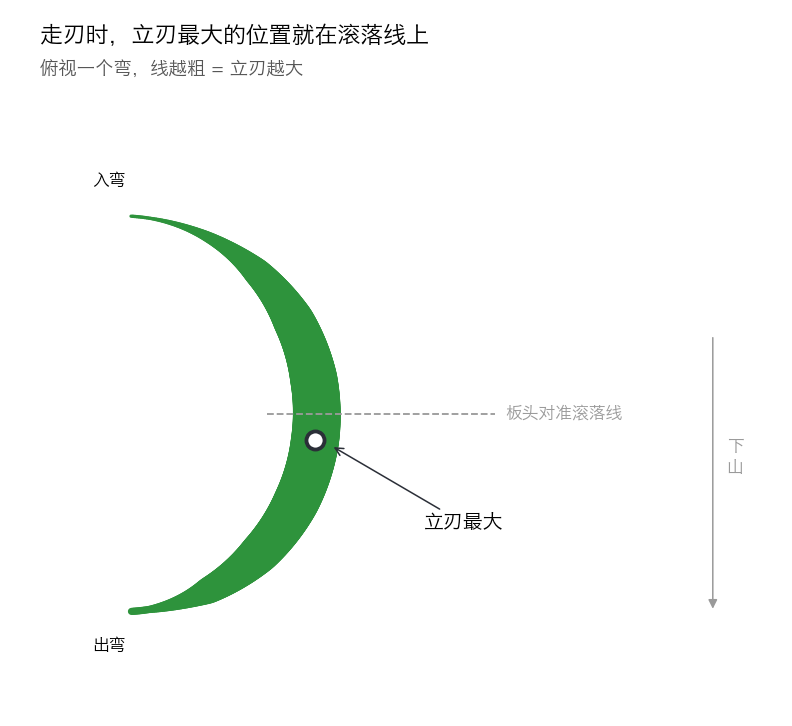
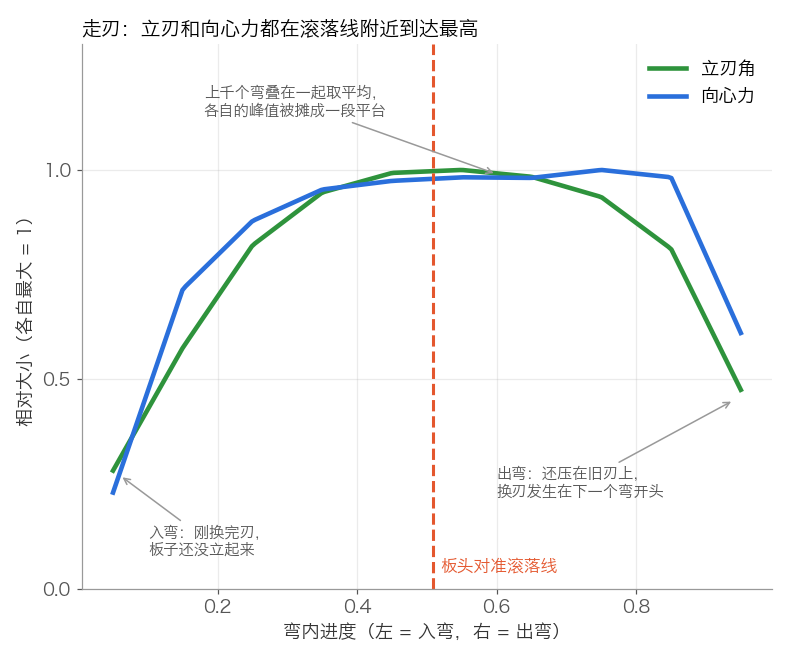
peak section: restore two-curve chart with explanations

diff --git a/index.html b/index.html
@@ -124,10 +124,16 @@
   </div>
   <div class="reply">
     <span class="tag">数据印证</span>
-    <h3>走刃时，立刃最大的那一刻就落在滚落线上</h3>
-    <p>我们把大量走刃弯叠在一起看：立刃角在板头对准滚落线的时候达到最大，向心力也在这里进入全弯最高的一段。专题说的「板头对准滚落线、立刃最大、向心力最强」三件事同时发生，在真实滑行里是成立的。</p>
-    <img src="img/f2_peak.png" alt="俯视一个走刃的弯，立刃最大的位置在滚落线上" loading="lazy">
-    <p class="cap">俯视一个走刃的弯，线越粗表示立刃越大，圆点是立刃最大的位置。</p>
+    <h3>走刃时，立刃和向心力都在滚落线附近到达最高</h3>
+    <p>我们把大量走刃弯叠在一起看：立刃角和向心力都在板头对准滚落线的前后到达最高。单看每一个弯，一半的弯立刃最大落在滚落线前后各 10% 的范围内。专题说的「板头对准滚落线、立刃最大、向心力最强」三件事同时发生，在真实滑行里是成立的。</p>
+    <img src="img/f2_peak.png" alt="走刃弯的立刃角和向心力曲线，在滚落线附近到达最高" loading="lazy">
+    <p class="cap">横轴是一个弯从入弯到出弯的进度，两条线各自按最大值缩放到 1。</p>
+    <ul class="cap">
+      <li>入弯一头低：刚换完刃，板子还没立起来。</li>
+      <li>出弯一头还比较高：我们按板头转向的转折点切弯，到这里板子还压在旧刃上，换刃发生在下一个弯开头。</li>
+      <li>中间是一段平台：上千个弯叠在一起取平均，每个弯的峰值位置略有不同，就被摊成了一段平台。</li>
+      <li>向心力在下半弧比立刃多撑一段：过了滚落线速度更快，向心力和速度的平方成正比。</li>
+    </ul>
   </div>
 </section>
 
